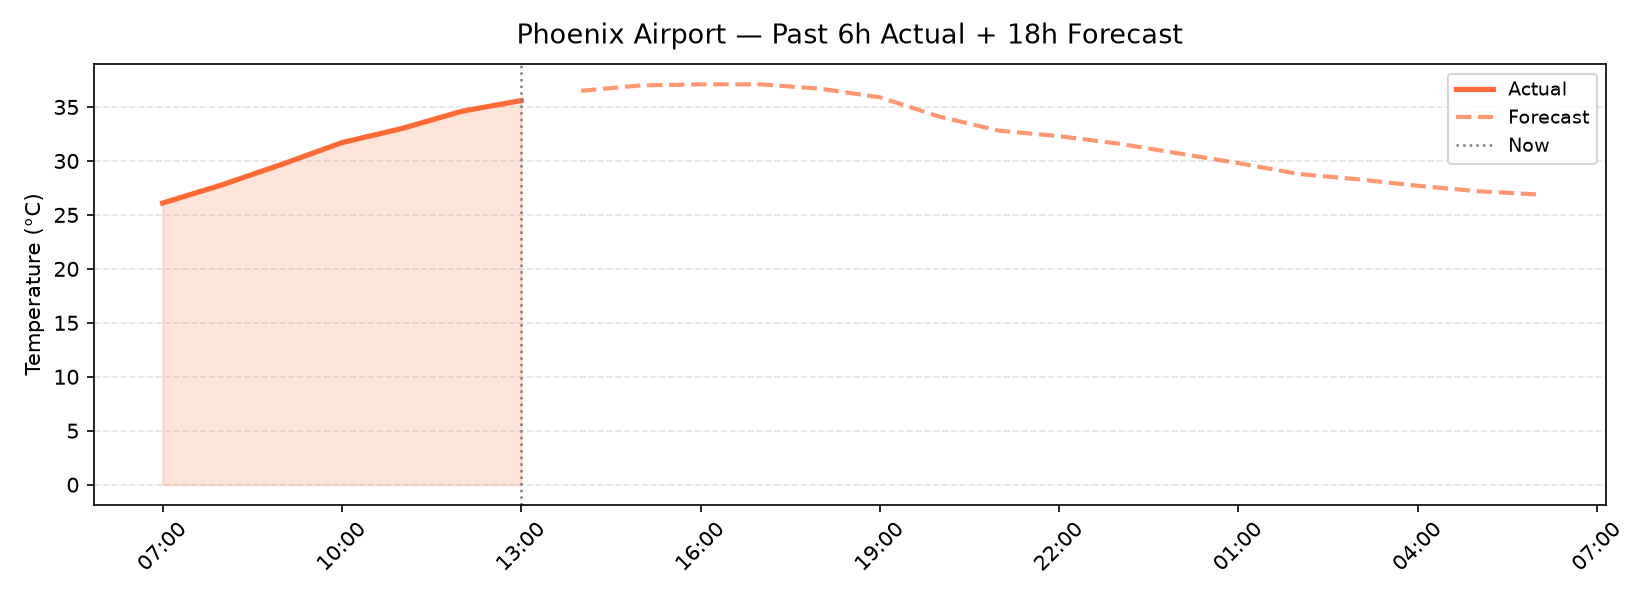
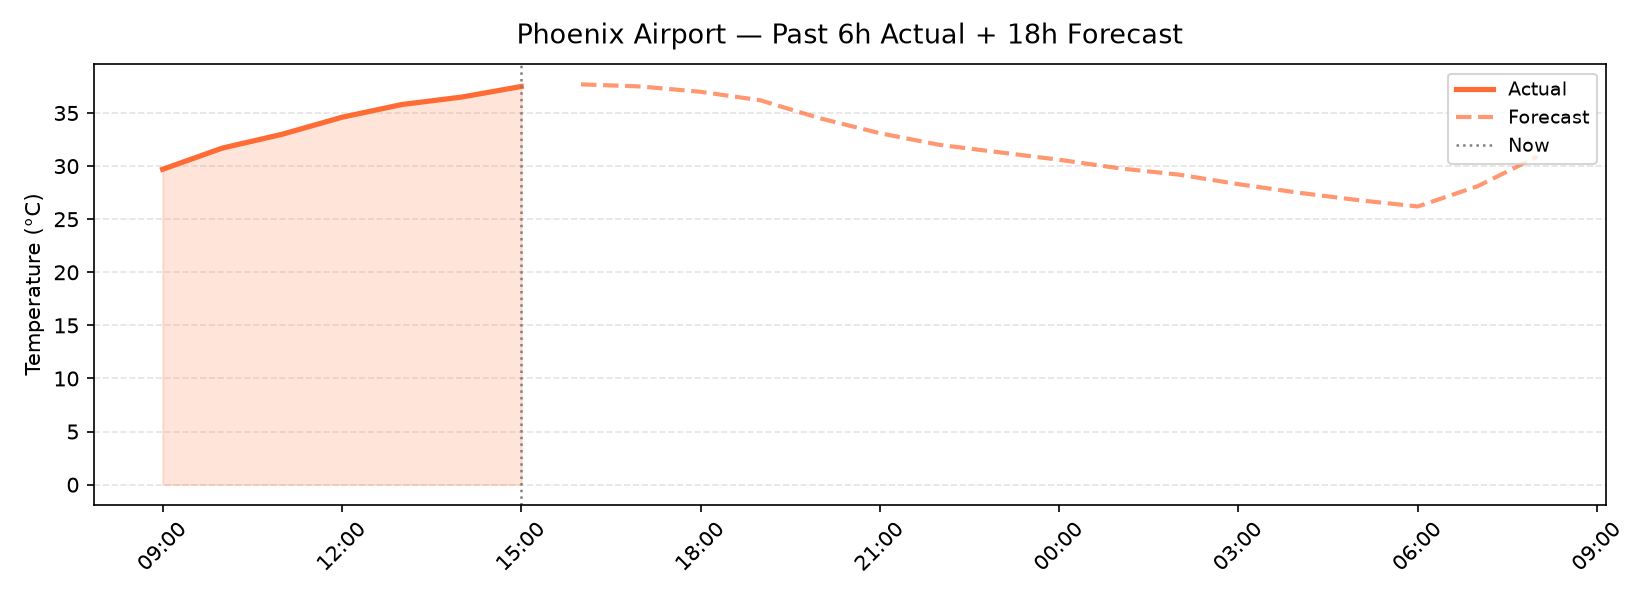
chore: update Arizona weather [skip ci]

diff --git a/weather.md b/weather.md
@@ -1,13 +1,13 @@
-🌵 Arizona Heat Reality — Updated Aug 13, 2026 at 13:30 (Phoenix time)
+🌵 Arizona Heat Reality — Updated Aug 13, 2026 at 15:30 (Phoenix time)
 
 | Condition        | Value                                    |
 |------------------|------------------------------------------|
-| 🌡 Temperature   | 36.0°C (feels like 40.5°C) |
-| 💧 Humidity      | 35%                              |
-| 💨 Wind          | 3.3 km/h NW |
-| ☀ UV Index      | 8.2                               |
+| 🌡 Temperature   | 37.7°C (feels like 40.5°C) |
+| 💧 Humidity      | 28%                              |
+| 💨 Wind          | 2.5 km/h W |
+| ☀ UV Index      | 5.8                               |
 | 🌧 Precipitation | 0.0 mm                              |
-| 📈 24h Range     | 26.1°C – 37.1°C              |
+| 📈 24h Range     | 26.2°C – 37.7°C              |
 
 😅 Still normal for Arizona.
 
